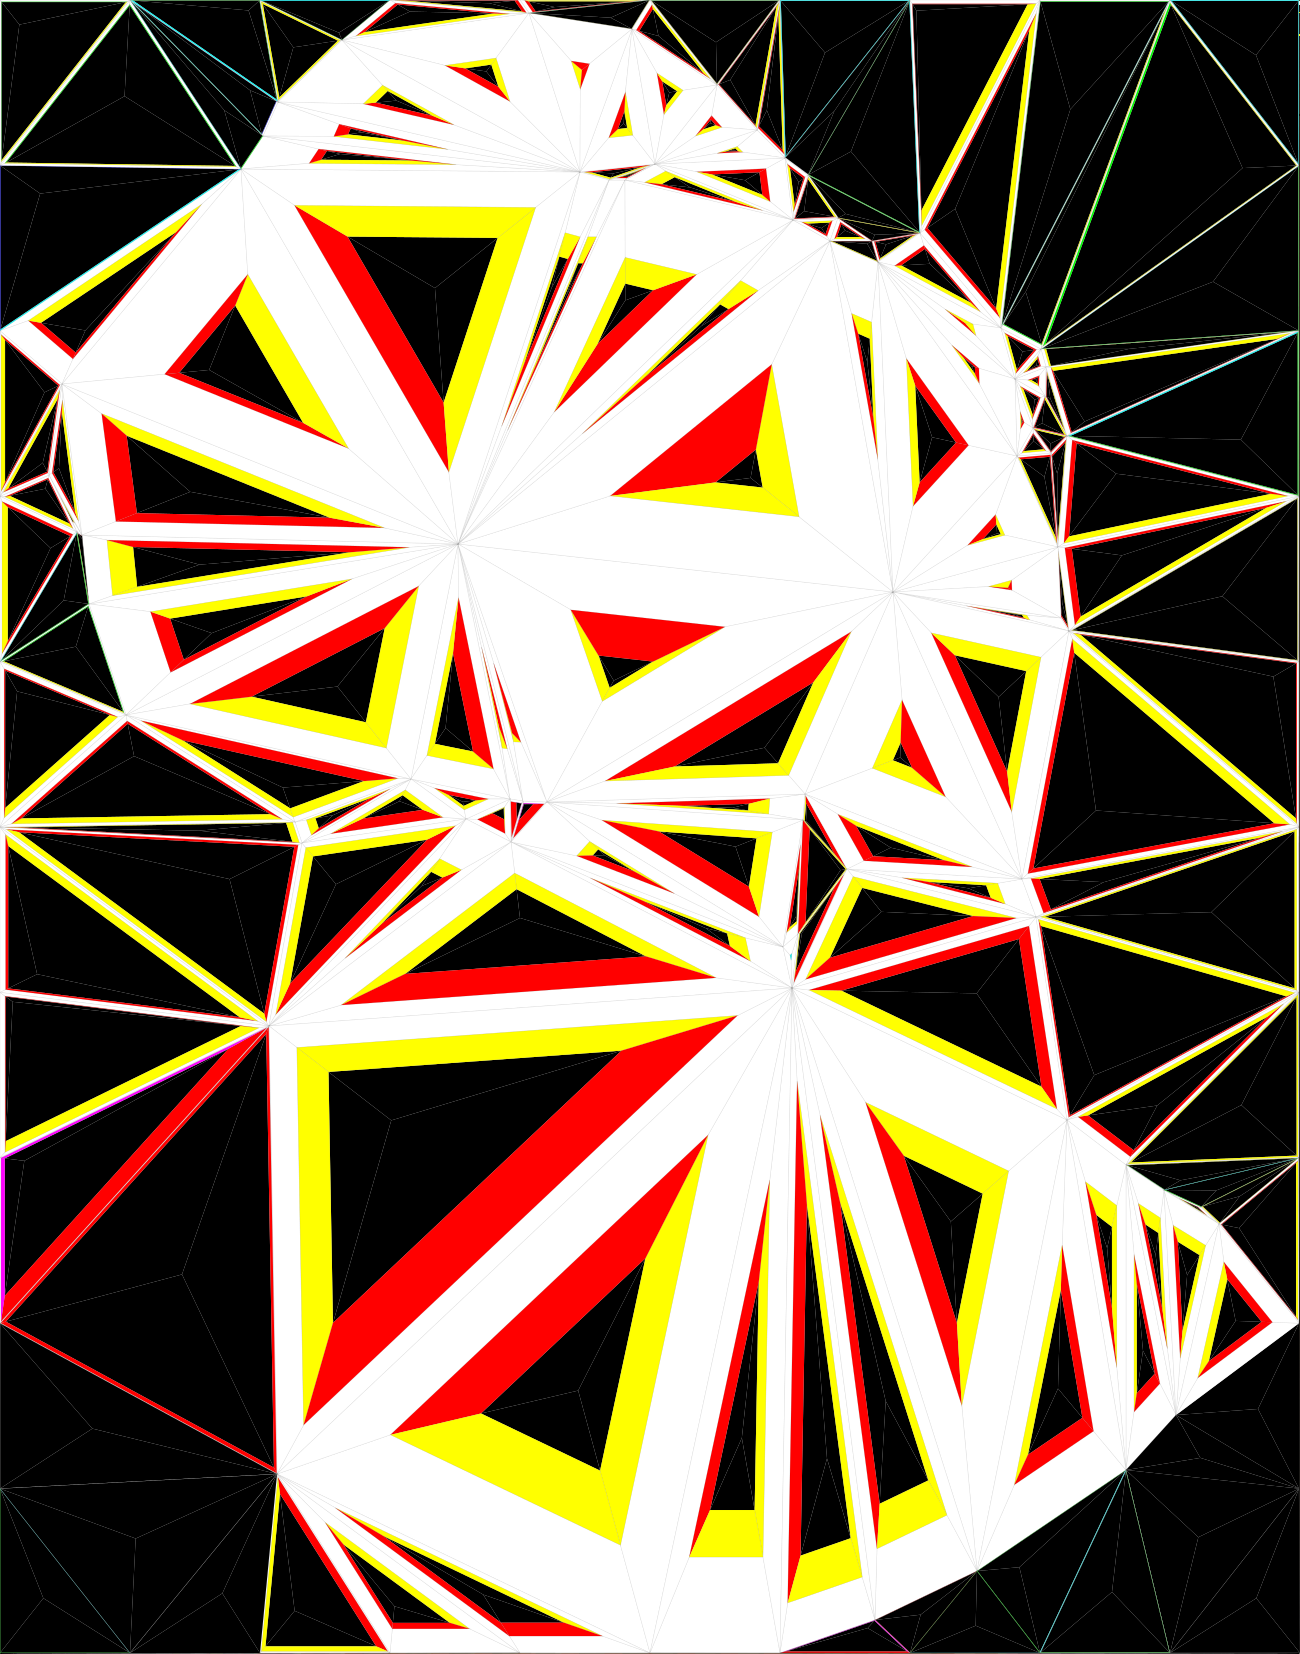
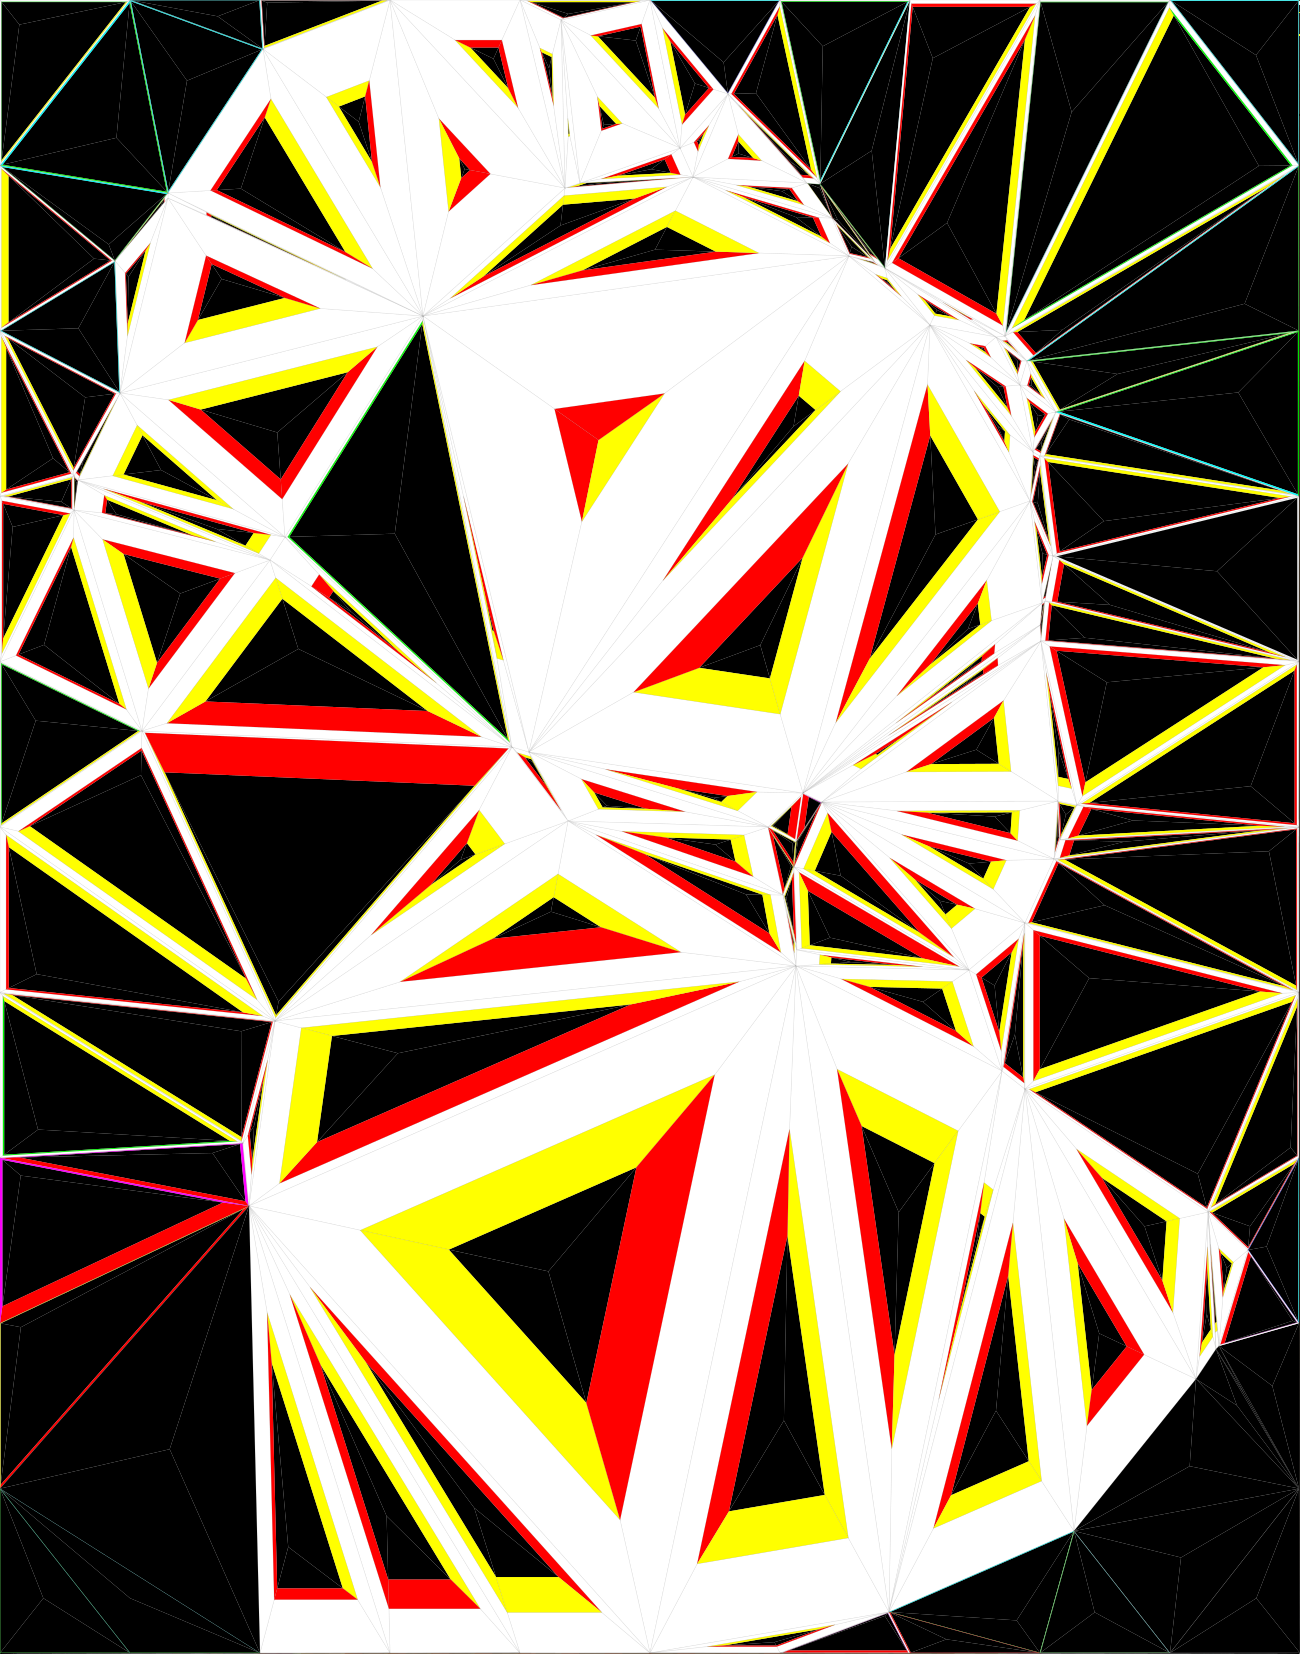
Fix mobile freezing: Move synchronous rendering to setTimeout so 'Processing...' status correctly displays and doesn't block UI thread

diff --git a/patch.js b/patch.js
@@ -1,0 +1,56 @@
+const fs = require('fs');
+
+const cssReplacement = `.controls-bar { flex-shrink: 0; display: flex; align-items: center; justify-content: center; gap: 20px; padding-top: 20px; position: relative;}
+        
+        .dropdown { position: relative; display: inline-block; }
+        .dropdown-content { display: none; position: absolute; bottom: 100%; left: 50%; transform: translateX(-50%); background-color: #222; min-width: 180px; box-shadow: 0px 8px 16px 0px rgba(0,0,0,0.5); z-index: 1; border-radius: 8px; border: 1px solid #444; margin-bottom: 15px; overflow: hidden; }
+        .dropdown-content a { color: white; padding: 12px 16px; text-decoration: none; display: block; font-size: 0.9em; text-align: center; border-bottom: 1px solid #333;}
+        .dropdown-content a:last-child { border-bottom: none; }
+        .dropdown-content a:hover { background-color: #333; }
+        .show { display: block; }
+
+        .control-button { padding: 0; border-radius: 50%; cursor: pointer; transition: all 0.2s ease; display: flex; align-items: center; justify-content: center; }
+        #uploadMenuBtn, #downloadSVGButton { width: 44px; height: 44px; background-color: #2a2a2a; border: 1px solid #444; color: #ccc; }
+        #uploadMenuBtn:hover, #downloadSVGButton:hover:not(:disabled) { background-color: #444; color: #fff; }
+        #downloadSVGButton:disabled { opacity: 0.3; cursor: not-allowed; }
+
+        #processButton { width: 60px; height: 60px; background-color: #3b82f6; border: none; color: #fff; box-shadow: 0 0 15px rgba(59, 130, 246, 0.4); }
+        #processButton:hover:not(:disabled) { background-color: #2563eb; transform: scale(1.05); }
+        #processButton:active:not(:disabled) { transform: scale(0.95); }
+        #processButton:disabled { opacity: 0.5; cursor: not-allowed; box-shadow: none; }
+
+        .control-group { display: flex; align-items: center; gap: 10px; background: #222; padding: 10px 15px; border-radius: 12px; border: 1px solid #444; }
+        input[type="checkbox"]#colorTriangles { width: 18px; height: 18px; accent-color: #3b82f6; cursor: pointer; }
+        label[for="colorTriangles"] { cursor: pointer; font-size: 0.95em; color: #ddd; user-select: none; }
+        
+        .slider-container { display: flex; flex-direction: column; align-items: center; gap: 5px; }
+        .slider-container label { font-size: 0.85em; font-weight: bold; color: #aaa; }
+        .slider-container span { font-size: 0.95em; color: #3b82f6; font-weight: bold; min-width: 40px; text-align: center; }
+        input[type="range"] { width: 150px; cursor: pointer; accent-color: #3b82f6; }
+
+        #status { display: none; position: absolute; top: 50%; left: 50%; transform: translate(-50%, -50%); background: rgba(0,0,0,0.8); color: white; padding: 12px 24px; border-radius: 30px; font-weight: bold; z-index: 100; letter-spacing: 1px; pointer-events: none; }
+        #imageFile { display: none; }`;
+
+const files = ['index.html', 'decomposer.html', 'hue_shift.html'];
+
+for (const file of files) {
+    let content = fs.readFileSync(file, 'utf8');
+    
+    // Replace the CSS block
+    content = content.replace(/\.controls-bar \{[\s\S]*?#imageFile \{ display: none; \}/, cssReplacement);
+    
+    // Fix the broken JS
+    content = content.replace(/viewToggle\.style\.display = 'flex';\n\s*btnDelaunay\.click\(\);/g, '');
+    content = content.replace(/viewToggle\.style\.display = 'flex';\n\s*btnDecomposed\.click\(\);/g, '');
+    content = content.replace(/viewToggle\.style\.display = 'flex';\n\s*btnMatrix\.click\(\);/g, '');
+    content = content.replace(/viewToggle\.style\.display = 'none';/g, '');
+    
+    // Decomposer process button was hidden or missing logic
+    // Ensure we don't have dangling btnDelaunay/btnDecomposed/btnMatrix references causing errors
+    content = content.replace(/btnDelaunay\.click\(\);/g, '');
+    content = content.replace(/btnDecomposed\.click\(\);/g, '');
+    content = content.replace(/btnMatrix\.click\(\);/g, '');
+
+    fs.writeFileSync(file, content);
+    console.log('Patched ' + file);
+}

diff --git a/screenshot.js b/screenshot.js
@@ -1,0 +1,48 @@
+const puppeteer = require('puppeteer');
+const fs = require('fs');
+
+async function captureScreenshots() {
+    console.log("Launching browser...");
+    const browser = await puppeteer.launch({
+        args: ['--no-sandbox', '--disable-setuid-sandbox']
+    });
+    
+    // Mobile Viewport (iPhone 12 Pro)
+    const viewport = { width: 390, height: 844, isMobile: true, hasTouch: true, deviceScaleFactor: 2 };
+    
+    const pages = [
+        { name: 'app1_generator.png', url: 'https://scandalous-art-investigations.github.io/delaunay-tools/index.html' },
+        { name: 'app2_decomposer.png', url: 'https://scandalous-art-investigations.github.io/delaunay-tools/decomposer.html' },
+        { name: 'app3_hueshift.png', url: 'https://scandalous-art-investigations.github.io/delaunay-tools/hue_shift.html' }
+    ];
+
+    for (let p of pages) {
+        console.log(`Navigating to ${p.url}...`);
+        const page = await browser.newPage();
+        await page.setViewport(viewport);
+        await page.goto(p.url, { waitUntil: 'networkidle0' });
+        
+        // Wait for processing to finish (status should be hidden)
+        try {
+            await page.waitForFunction(() => {
+                const status = document.getElementById('status');
+                return status && (status.style.display === 'none' || status.style.display === '');
+            }, { timeout: 15000 });
+        } catch (e) {
+            console.log("Status wait timeout, but proceeding.");
+        }
+        
+        // Add a small delay to ensure canvas rendering is complete
+        await new Promise(r => setTimeout(r, 2000));
+        
+        const path = '/Users/J.A.R.V.I.S./.openclaw/workspace/drafts/delaunay/' + p.name;
+        await page.screenshot({ path: path });
+        console.log(`Saved screenshot: ${path}`);
+        await page.close();
+    }
+    
+    await browser.close();
+    console.log("Done.");
+}
+
+captureScreenshots().catch(console.error);

diff --git a/hue_shift.html b/hue_shift.html
@@ -19,7 +19,7 @@
         #outputCanvas, #originalImagePreview { max-width: 100%; max-height: 100%; object-fit: contain; border-radius: 4px; box-shadow: 0 4px 20px rgba(0,0,0,0.5); }
         #sourceCanvasContainer { display: none; }
 
-        .controls-bar { flex-shrink: 0; display: flex; align-items: center; justify-content: center; flex-wrap: wrap; gap: 15px; padding-top: 20px; position: relative; }
+        .controls-bar { flex-shrink: 0; display: flex; align-items: center; justify-content: center; gap: 20px; padding-top: 20px; position: relative;}
         
         .dropdown { position: relative; display: inline-block; }
         .dropdown-content { display: none; position: absolute; bottom: 100%; left: 50%; transform: translateX(-50%); background-color: #222; min-width: 180px; box-shadow: 0px 8px 16px 0px rgba(0,0,0,0.5); z-index: 1; border-radius: 8px; border: 1px solid #444; margin-bottom: 15px; overflow: hidden; }
@@ -27,23 +27,25 @@
         .dropdown-content a:last-child { border-bottom: none; }
         .dropdown-content a:hover { background-color: #333; }
         .show { display: block; }
-        
-        .control-button, #processButton, #downloadSVGButton, #uploadMenuBtn { padding: 0; background-color: #333; color: #fff; border: 1px solid #444; border-radius: 50%; cursor: pointer; transition: 0.2s; display: flex; align-items: center; justify-content: center; }
-        #uploadMenuBtn { width: 50px; height: 50px; background-color: #6DA9FF; border: none; color: #000; }
-        #uploadMenuBtn:hover { background-color: #87BFFF; }
-        #processButton, #downloadSVGButton { width: 40px; height: 40px; }
-        #processButton:hover:not(:disabled), #downloadSVGButton:hover:not(:disabled) { background-color: #555; }
-        #processButton:disabled, #downloadSVGButton:disabled { opacity: 0.3; cursor: not-allowed; }
-        
-        .control-toggle { display: flex; align-items: center; background: #222; border-radius: 20px; overflow: hidden; border: 1px solid #444; }
-        .control-toggle button { flex: 1; border: none; background: none; padding: 10px 20px; font-size: 0.95em; font-weight: bold; color: #888; cursor: pointer; transition: 0.2s; }
-        .control-toggle button.active { background: #6DA9FF; color: #000; }
 
-        .control-group { display: flex; align-items: center; gap: 10px; background: #222; padding: 10px 15px; border-radius: 8px; border: 1px solid #444; }
+        .control-button { padding: 0; border-radius: 50%; cursor: pointer; transition: all 0.2s ease; display: flex; align-items: center; justify-content: center; }
+        #uploadMenuBtn, #downloadSVGButton { width: 44px; height: 44px; background-color: #2a2a2a; border: 1px solid #444; color: #ccc; }
+        #uploadMenuBtn:hover, #downloadSVGButton:hover:not(:disabled) { background-color: #444; color: #fff; }
+        #downloadSVGButton:disabled { opacity: 0.3; cursor: not-allowed; }
+
+        #processButton { width: 60px; height: 60px; background-color: #3b82f6; border: none; color: #fff; box-shadow: 0 0 15px rgba(59, 130, 246, 0.4); }
+        #processButton:hover:not(:disabled) { background-color: #2563eb; transform: scale(1.05); }
+        #processButton:active:not(:disabled) { transform: scale(0.95); }
+        #processButton:disabled { opacity: 0.5; cursor: not-allowed; box-shadow: none; }
+
+        .control-group { display: flex; align-items: center; gap: 10px; background: #222; padding: 10px 15px; border-radius: 12px; border: 1px solid #444; }
+        input[type="checkbox"]#colorTriangles { width: 18px; height: 18px; accent-color: #3b82f6; cursor: pointer; }
+        label[for="colorTriangles"] { cursor: pointer; font-size: 0.95em; color: #ddd; user-select: none; }
+        
         .slider-container { display: flex; flex-direction: column; align-items: center; gap: 5px; }
-        .slider-container label { font-size: 0.85em; font-weight: bold; color: #ccc; }
-        .slider-container span { font-size: 0.85em; color: #6DA9FF; font-weight: bold; min-width: 40px; text-align: center; }
-        input[type="range"] { width: 150px; cursor: pointer; }
+        .slider-container label { font-size: 0.85em; font-weight: bold; color: #aaa; }
+        .slider-container span { font-size: 0.95em; color: #3b82f6; font-weight: bold; min-width: 40px; text-align: center; }
+        input[type="range"] { width: 150px; cursor: pointer; accent-color: #3b82f6; }
 
         #status { display: none; position: absolute; top: 50%; left: 50%; transform: translate(-50%, -50%); background: rgba(0,0,0,0.8); color: white; padding: 12px 24px; border-radius: 30px; font-weight: bold; z-index: 100; letter-spacing: 1px; pointer-events: none; }
         #imageFile { display: none; }

diff --git a/index.html b/index.html
@@ -249,15 +249,17 @@
         return res;
     }
 
-    async function processImage() {
+    function processImage() {
         if (processing) return;
         processing = true; updateButtonState(true, false);
         if (!d3 || !d3.Delaunay || !originalImageData) { processing = false; updateButtonState(false, false); showStatus(); return; }
         
         showStatus('Processing...');
-        await new Promise(resolve => setTimeout(resolve, 20));
-
-        const cArea = imageWidth * imageHeight; const bArea = baseSettings.imageWidth * baseSettings.imageHeight;
+        // Force a layout recalculation to ensure the status shows before heavy work
+        void outputCanvas.offsetWidth;
+        
+        setTimeout(() => {
+            const cArea = imageWidth * imageHeight; const bArea = baseSettings.imageWidth * baseSettings.imageHeight;
         let aScale = Math.max(0.1, Math.min(10.0, (bArea > 0 && cArea > 0) ? (cArea / bArea) : 1.0));
         let lScale = Math.max(0.25, Math.min(4.0, (Math.min(baseSettings.imageWidth, baseSettings.imageHeight) > 0) ? (Math.min(imageWidth, imageHeight) / Math.min(baseSettings.imageWidth, baseSettings.imageHeight)) : 1.0));
 
@@ -304,6 +306,7 @@
         processing = false; 
         updateButtonState(true, true);
         showStatus(null);
+        }, 100);
     }
 
     function generateSeeds(numDesiredSeeds, powerFactor, edgeThreshold, edgeWeightFactor, minDistance, width, height, imageData) {

diff --git a/decomposer.html b/decomposer.html
@@ -415,15 +415,16 @@
         return seeds;
     }
 
-    async function processImage() {
+    function processImage() {
         if (processing) return;
         processing = true; updateButtonState(true, false);
         if (!d3 || !d3.Delaunay || !originalImageData) { processing = false; updateButtonState(false, false); showStatus(); return; }
         
         showStatus('Processing...');
-        await new Promise(resolve => setTimeout(resolve, 20));
+        void outputCanvas.offsetWidth;
 
-        const cArea = imageWidth * imageHeight; const bArea = baseSettings.imageWidth * baseSettings.imageHeight;
+        setTimeout(() => {
+            const cArea = imageWidth * imageHeight; const bArea = baseSettings.imageWidth * baseSettings.imageHeight;
         let aScale = Math.max(0.1, Math.min(10.0, (bArea > 0 && cArea > 0) ? (cArea / bArea) : 1.0));
         let lScale = Math.max(0.25, Math.min(4.0, (Math.min(baseSettings.imageWidth, baseSettings.imageHeight) > 0) ? (Math.min(imageWidth, imageHeight) / Math.min(baseSettings.imageWidth, baseSettings.imageHeight)) : 1.0));
 
@@ -469,6 +470,7 @@
         processing = false; 
         updateButtonState(true, true);
         showStatus(null);
+        }, 100);
     }
 
     function generateSVGString() {